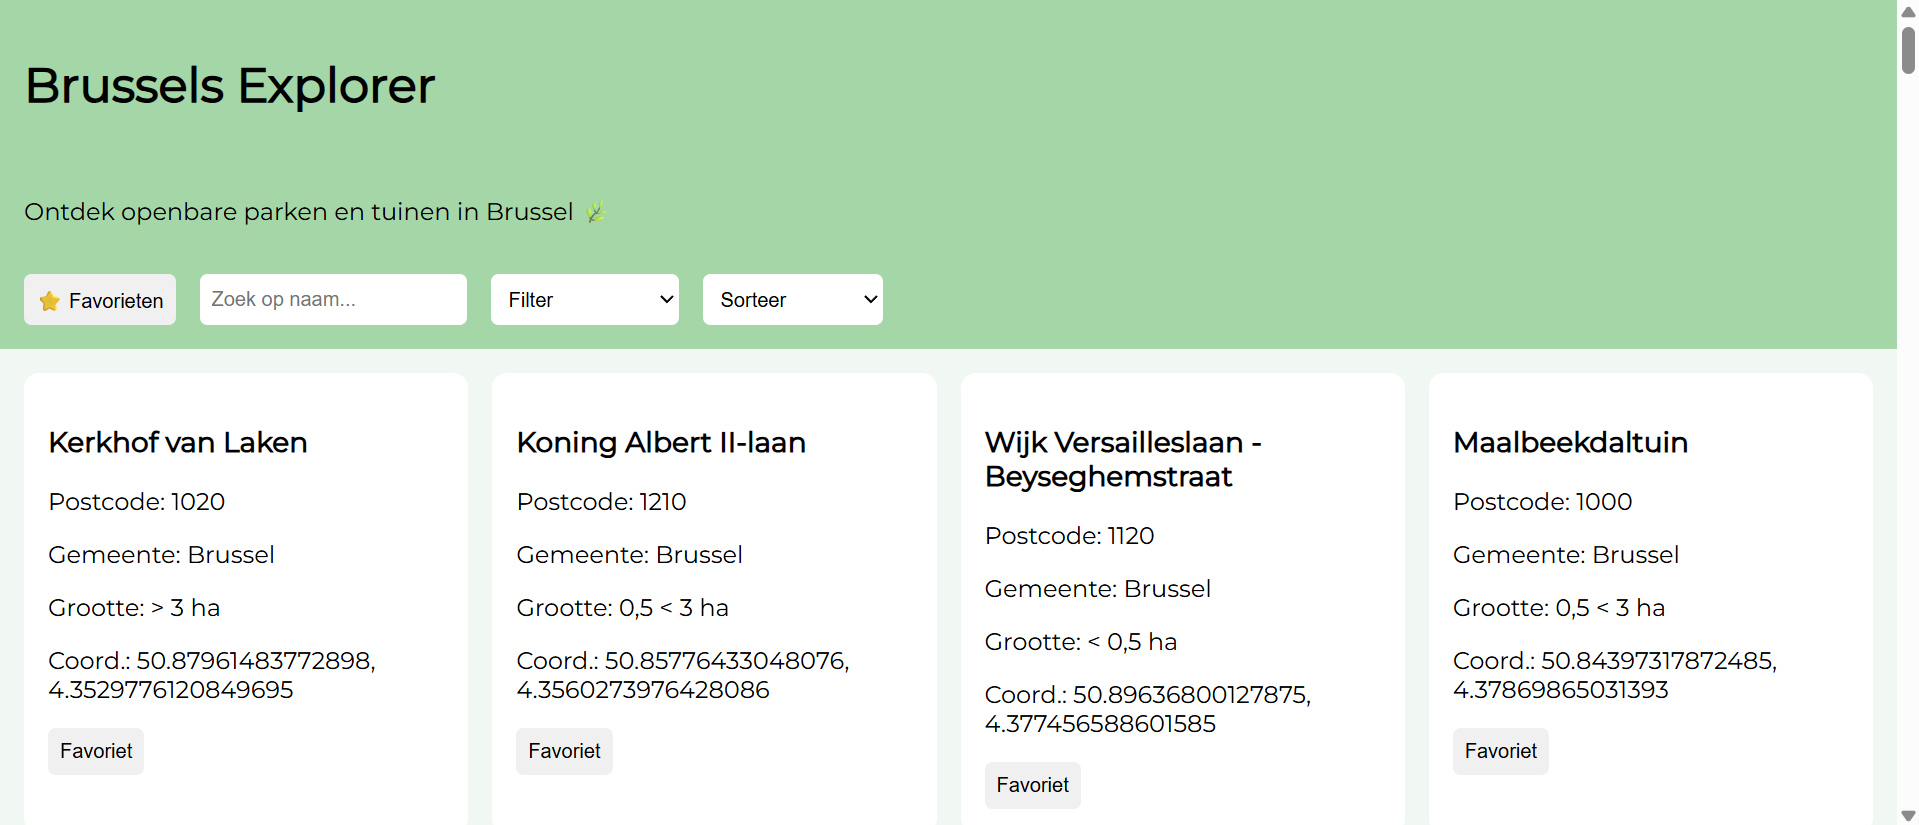
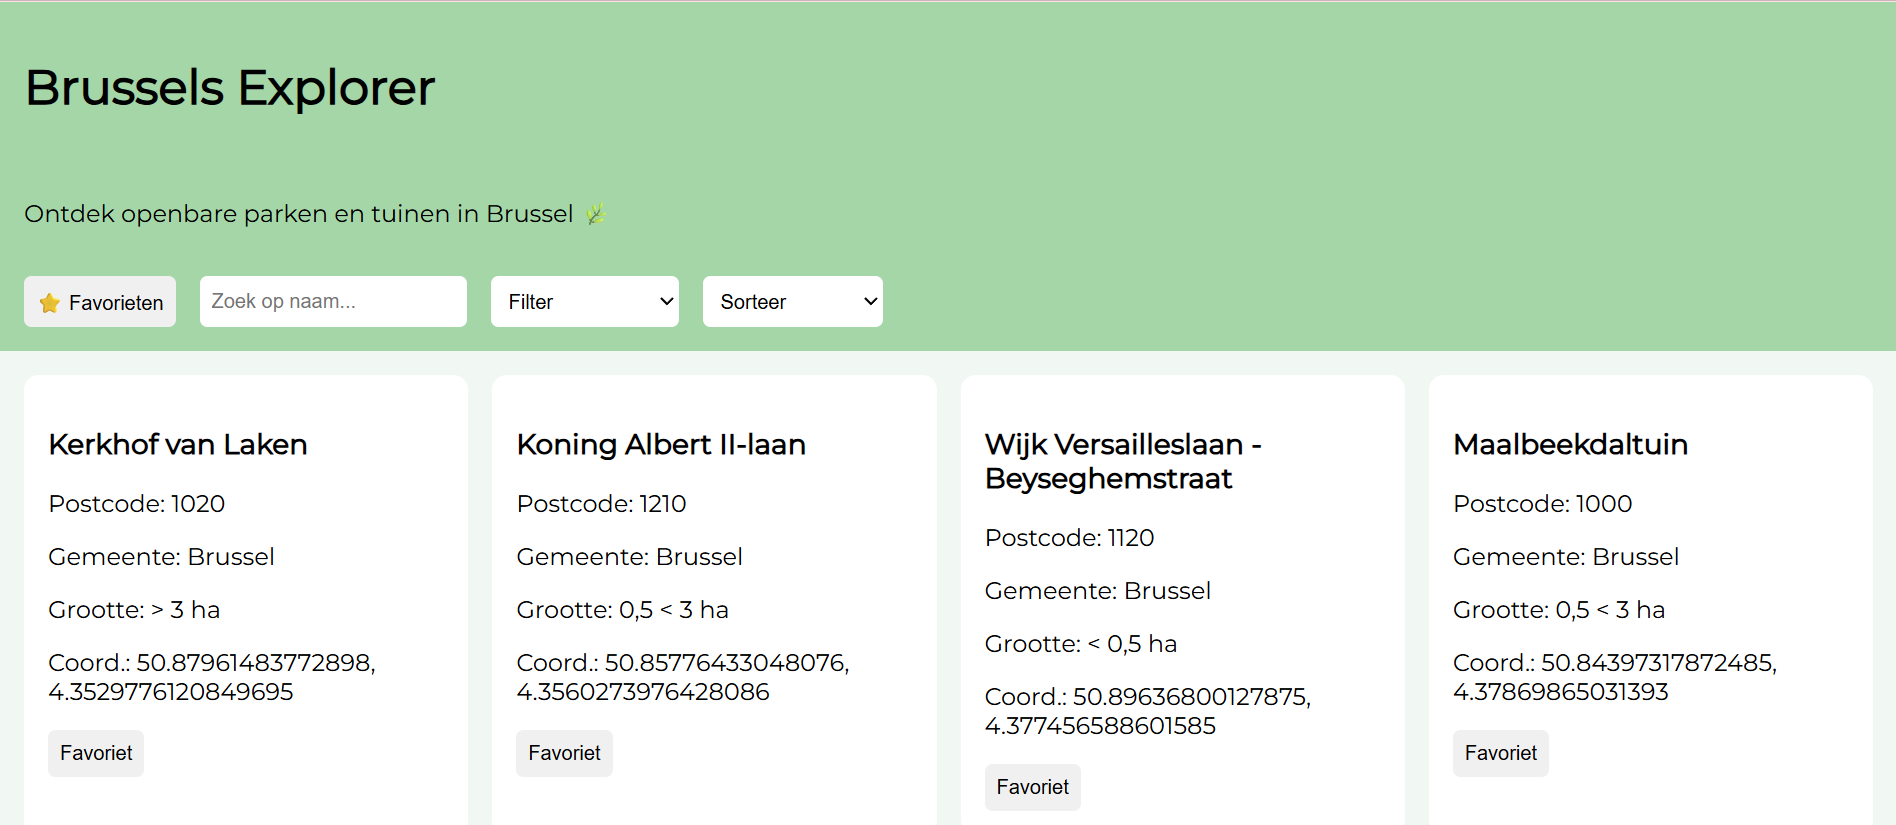
fix image

diff --git a/README.md b/README.md
@@ -51,4 +51,4 @@ Link : https://opendata.brussels.be/explore/dataset/parcs_et_jardins_publics/inf
  AI chatlog hier nog toevoegen
 
 ## Screenshot
-![alt text](image-1.png)
+![alt text](image.png)
